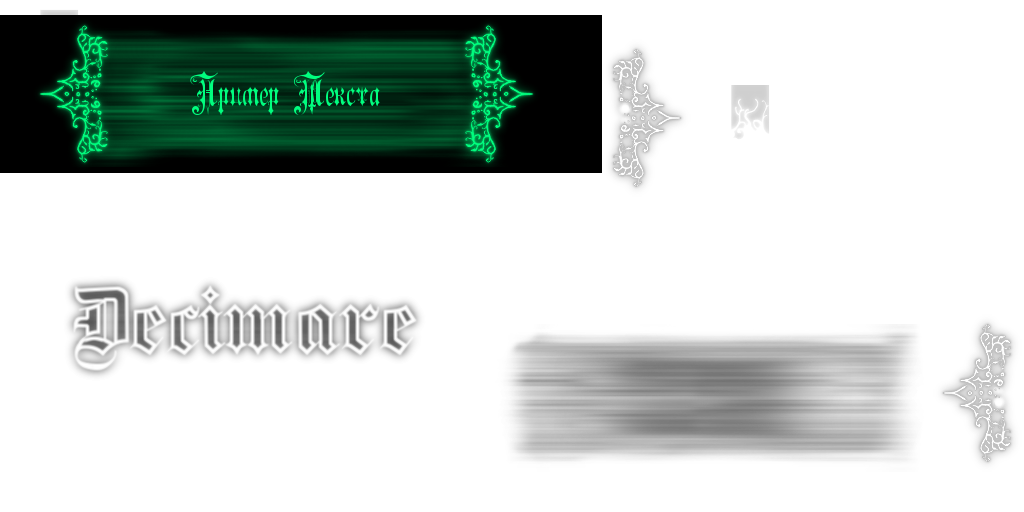
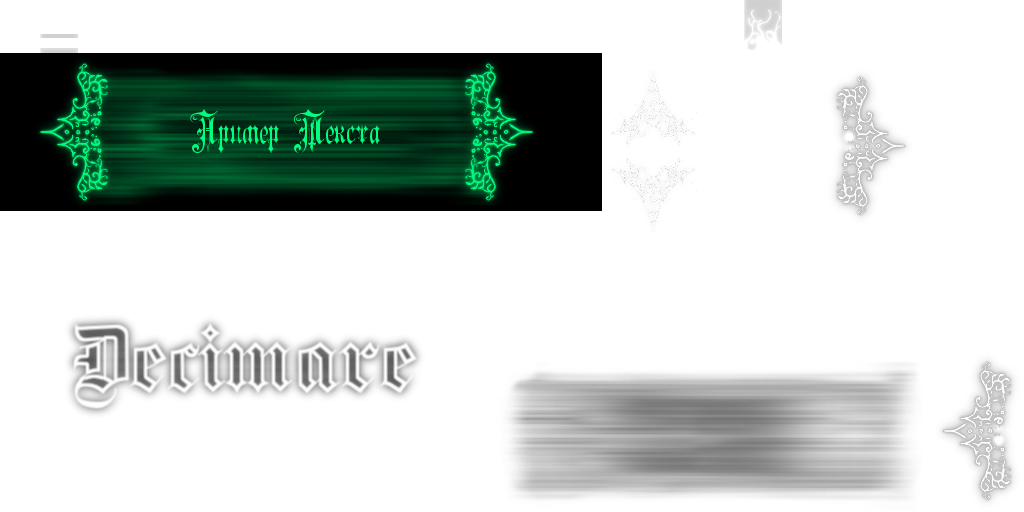
Cosmetical fixes and additions

diff --git a/core/src/com/lobseek/decimated/Main.java b/core/src/com/lobseek/decimated/Main.java
@@ -32,7 +32,7 @@ import java.util.Random;
  */
 public class Main extends Game {
 
-    public static final String NAME = "LobseekForces";
+    public static final String NAME = "Decimare";
     public static final Random R = new Random(Long.MAX_VALUE - System.nanoTime());
     public static final AssetManager AM = new AssetManager();
     public static Main main;
@@ -40,11 +40,12 @@ public class Main extends Game {
     public static long nanos;
     public static TextureAtlas atlas, small_atlas;
     private boolean loaded;
-    public static boolean simple, contrast;
+    public static boolean simple, contrast, particles = true;
     private static long time;
     private static int frames;
     public static Texture laser;
     public static SoundLoader sl = new SoundLoader();
+    public static GameScreen gameScreen;
     public static float scale = 1;
 
     /**
@@ -52,8 +53,9 @@ public class Main extends Game {
      * fonts and locale files.
      */
     public void load() {
-        if(Gdx.graphics.getDensity() > 2){
-           scale = Gdx.graphics.getDensity() / 2;
+        float que = 1.2f;
+        if (Gdx.graphics.getDensity() > que) {
+            scale = Gdx.graphics.getDensity() / que;
         }
         if (loaded) {
             return;
@@ -79,6 +81,16 @@ public class Main extends Game {
         if (!simple) {
             atlas = main.AM.get("atlas.pack");
             small_atlas = main.AM.get("small_atlas.pack");
+            if (Gdx.graphics.getDensity() > que) {
+                for (Texture t : atlas.getTextures()) {
+                    t.setFilter(Texture.TextureFilter.Linear,
+                            Texture.TextureFilter.Linear);
+                }
+                for (Texture t : small_atlas.getTextures()) {
+                    t.setFilter(Texture.TextureFilter.Linear,
+                            Texture.TextureFilter.Linear);
+                }
+            }
         } else {
             atlas = small_atlas = main.AM.get("small_atlas.pack");
         }
@@ -97,7 +109,10 @@ public class Main extends Game {
 
     @Override
     public void pause() {
-        super.pause(); //To change body of generated methods, choose Tools | Templates.
+        super.pause(); 
+        if(gameScreen != null && gameScreen.room != null){
+            gameScreen.room.stop();
+        }
     }
 
     /**

diff --git a/core/src/com/lobseek/decimated/components/Room.java b/core/src/com/lobseek/decimated/components/Room.java
@@ -100,7 +100,7 @@ public class Room implements Layer {
             players[i] = new Player(this, i);
             players[i].ai = true;
         }
-        
+
         Color c[] = {
             Color.RED,
             Color.BLUE,
@@ -114,13 +114,13 @@ public class Room implements Layer {
         boolean b[] = new boolean[c.length];
         for (int i = 1; i <= 8; i++) {
             int j = 0;
-            do{
-               j = Main.R.nextInt(b.length);
-            } while(b[j]);
+            do {
+                j = Main.R.nextInt(b.length);
+            } while (b[j]);
             players[i].color = c[j];
             b[j] = true;
         }
-        
+
         actTimer = new Timer("Act Timer");
         tickTimer = new Timer("Tick Timer");
 
@@ -202,6 +202,9 @@ public class Room implements Layer {
      * @return Barricade. But I already told you that you mustn't use it.
      */
     public BackgroundContainer getBackgroundContainer(int x, int y) {
+        if (!Main.particles) {
+            return null;
+        }
         x += backgrounds.length / 2;
         y += backgrounds.length / 2;
         if (x >= 0 && x < backgrounds.length
@@ -504,14 +507,15 @@ public class Room implements Layer {
                 terrain.draw(batch);
             }
         }
-
-        for (int i = (int) ((cam.x - width / 2) / 256f) - 2;
-                i < (int) ((cam.x + width / 2) / 256f) + 2; i++) {
-            for (int j = (int) ((cam.y - height / 2) / 256f) - 2;
-                    j < (int) ((cam.y + height / 2) / 256f) + 2; j++) {
-                BackgroundContainer b = getBackgroundContainer(i, j);
-                if (b != null) {
-                    b.render(batch);
+        if (Main.particles) {
+            for (int i = (int) ((cam.x - width / 2) / 256f) - 2;
+                    i < (int) ((cam.x + width / 2) / 256f) + 2; i++) {
+                for (int j = (int) ((cam.y - height / 2) / 256f) - 2;
+                        j < (int) ((cam.y + height / 2) / 256f) + 2; j++) {
+                    BackgroundContainer b = getBackgroundContainer(i, j);
+                    if (b != null) {
+                        b.render(batch);
+                    }
                 }
             }
         }

diff --git a/core/src/com/lobseek/decimated/gui/Trigger.java b/core/src/com/lobseek/decimated/gui/Trigger.java
@@ -17,32 +17,34 @@ import com.lobseek.utils.ColorFabricator;
  */
 public class Trigger extends Button {
 
-    boolean value = true;
-    public Sprite pimpochka = new Sprite("gui/button_right", true);
+    public boolean value = true;
+    private Sprite pimpochka = new Sprite("gui/trigger", true);
+    private float pimpochkiPolozhenie = 0;
 
     public Trigger(String code) {
         super(code);
-
     }
 
     public void done() {
         pimpochka.x = x();
-        System.out.println(pimpochka.x + "  " + x());
     }
 
     @Override
     public void tapUp(Touch t) {
-        value = !value;
+    }
+
+    @Override
+    public void swipe(Touch t) {
+        value = t.dx > 0;
     }
 
     @Override
     public void act(float delta) {
         super.act(delta);
-        if (value && pimpochka.x > x() - width / 2) {
-            pimpochka.x -= 2;
-        }
-        if (!value && pimpochka.x < x() + width / 2) {
-            pimpochka.x += 2;
+        if (value) {
+            pimpochkiPolozhenie = (float) Math.min(Math.PI / 2, pimpochkiPolozhenie + delta * 5);
+        } else {
+            pimpochkiPolozhenie = (float) Math.max(-Math.PI / 2, pimpochkiPolozhenie - delta * 5);
         }
     }
 
@@ -51,12 +53,11 @@ public class Trigger extends Button {
         super.draw(b);
         float a = (float) (Math.max(0, lightness - 0.5) * 2);
         pimpochka.y = y();
-        float x = pimpochka.x;
-        pimpochka.x += x() - width;
+        pimpochka.x = (float) (x() + (width - pimpochka.width - 50) / 2 * Math.sin(pimpochkiPolozhenie));
         Color c = ColorFabricator.neon(a);
         pimpochka.setColor(c);
+        pimpochka.angle = (float)(Math.sin(pimpochkiPolozhenie) * Math.PI / 2 - Math.PI / 2);
         pimpochka.draw(b);
-        pimpochka.x = x;
     }
 
 }

diff --git a/core/src/com/lobseek/decimated/components/Player.java b/core/src/com/lobseek/decimated/components/Player.java
@@ -49,6 +49,7 @@ public class Player {
     public Class types[];
     public float produce[];
     public int units, max, maxUnits = max = 5;
+    public int experience;
     private Base base;
 
     public void setTypes(Class... types) {
@@ -69,7 +70,9 @@ public class Player {
                 Dragoon.class,
                 Controller.class
         );
-        randomizeProduction();
+        if (index != 1) {
+            randomizeProduction();
+        }
     }
 
     public void win() {
@@ -77,10 +80,11 @@ public class Player {
     }
 
     public void checkVictory() {
-        for (int i = 1; i <= room.players.length; i++) {
-            if (isEnemy(i) && room.players[i].maxUnits >= room.players[i].max) {
-                System.out.println("Player " + i + " --- "
-                        + room.players[i].maxUnits + " of " + room.players[i].max);
+        for (int in = 1; in < room.players.length; in++) {
+            if (in == index) {
+                continue;
+            }
+            if (isEnemy(in) && room.players[in].maxUnits > room.players[in].max) {
                 return;
             }
         }

diff --git a/core/src/com/lobseek/decimated/units/Phantom.java b/core/src/com/lobseek/decimated/units/Phantom.java
@@ -24,6 +24,7 @@ import com.lobseek.decimated.components.Sprite;
 import com.lobseek.decimated.components.Unit;
 import com.lobseek.decimated.components.Weapon;
 import com.lobseek.decimated.particles.Explosion;
+import com.lobseek.utils.ColorFabricator;
 import static com.lobseek.utils.Math.*;
 
 /**
@@ -170,6 +171,20 @@ public class Phantom extends Unit {
         speed = 400;
         turnSpeed = 2;
         agressive = true;
+    }
+    
+    static Sprite invisible = new Sprite("phantom_body_invisible");
+
+    @Override
+    public void render(Batch batch, float delta) {
+        if(owner == room.player){
+        invisible.x = x;
+        invisible.y = y;
+        invisible.angle = angle;
+        invisible.setColor(ColorFabricator.neon(1 - visiblity));
+        invisible.draw(batch);
+        }
+        super.render(batch, delta);
     }
 
     @Override

diff --git a/core/src/com/lobseek/decimated/units/Disruptor.java b/core/src/com/lobseek/decimated/units/Disruptor.java
@@ -32,6 +32,7 @@ import static java.lang.Math.max;
  */
 public class Disruptor extends Unit {
 
+    private Disruptor self = this;
     private static Sprite explosion_1 = new Sprite("plasma/explosion4"),
             explosion_2 = new Sprite("plasma/explosion5");
 
@@ -53,7 +54,7 @@ public class Disruptor extends Unit {
 
         @Override
         public void shoot(Unit to, Point from) {
-            to.hit(50, to);
+            to.hit(50, self);
             room.add(new Lazer(this, from.x, from.y, to.x, to.y));
             room.add(new Explosion(to.x, to.y, 400, explosion_1, 35, 300));
             room.add(new Explosion(to.x, to.y, 500, explosion_2, 35, 120));

diff --git a/core/src/com/lobseek/decimated/components/Unit.java b/core/src/com/lobseek/decimated/components/Unit.java
@@ -152,12 +152,11 @@ public class Unit extends Actor {
      * @param from unit that attacked.
      */
     public void hit(float hp, Unit from) {
-        /**
-         * @todo make angle of attack. Powershell animation will be soon.
-         */
         if (this.hp > 0 && this.hp - hp <= 0) {
             if (from != null) {
                 from.experience += this.experience / 2;
+                room.players[from.owner].experience += this.experience / 2;
+                if(from.owner == 0)System.out.println(from.getClass());
                 this.experience = 0;
             }
             room.blind(1f, x, y);

diff --git a/core/src/com/lobseek/decimated/screens/GameScreen.java b/core/src/com/lobseek/decimated/screens/GameScreen.java
@@ -37,9 +37,17 @@ import com.lobseek.widgets.LWContainer;
  */
 public class GameScreen extends Screen {
 
-    Room room;
+    public Room room;
     public LWContainer menu, unitList, settings;
     public static com.badlogic.gdx.graphics.g2d.Sprite background;
+
+    public GameScreen(Room room, LWContainer menu, LWContainer unitList, LWContainer settings) {
+        this.room = room;
+        this.menu = menu;
+        this.unitList = unitList;
+        this.settings = settings;
+        Main.gameScreen = this;
+    }
 
     void beginGame() {
         menu.hide();

diff --git a/core/src/com/lobseek/decimated/actors/Turret.java b/core/src/com/lobseek/decimated/actors/Turret.java
@@ -183,6 +183,7 @@ public class Turret extends Actor {
             room.add(new Explosion(target.x, target.y, 400, exp, 35, 330));
             room.add(new Explosion(target.x, target.y, 200, exp, 35, 430));
             room.blind(0.7f, target.x, target.y);
+            unit.owner = base.owner;
             target.hit(500, unit);
         }
         float dist = dist(x, y, room.cam.x, room.cam.y)

diff --git a/core/src/com/lobseek/decimated/actors/Base.java b/core/src/com/lobseek/decimated/actors/Base.java
@@ -78,6 +78,10 @@ public class Base extends Actor {
             );
         }
         room.players[owner].maxUnits += unitsPerBase;
+        if(owner == room.player){
+            room.cam.x = x;
+            room.cam.y = y;
+        }
     }
 
     @Override
